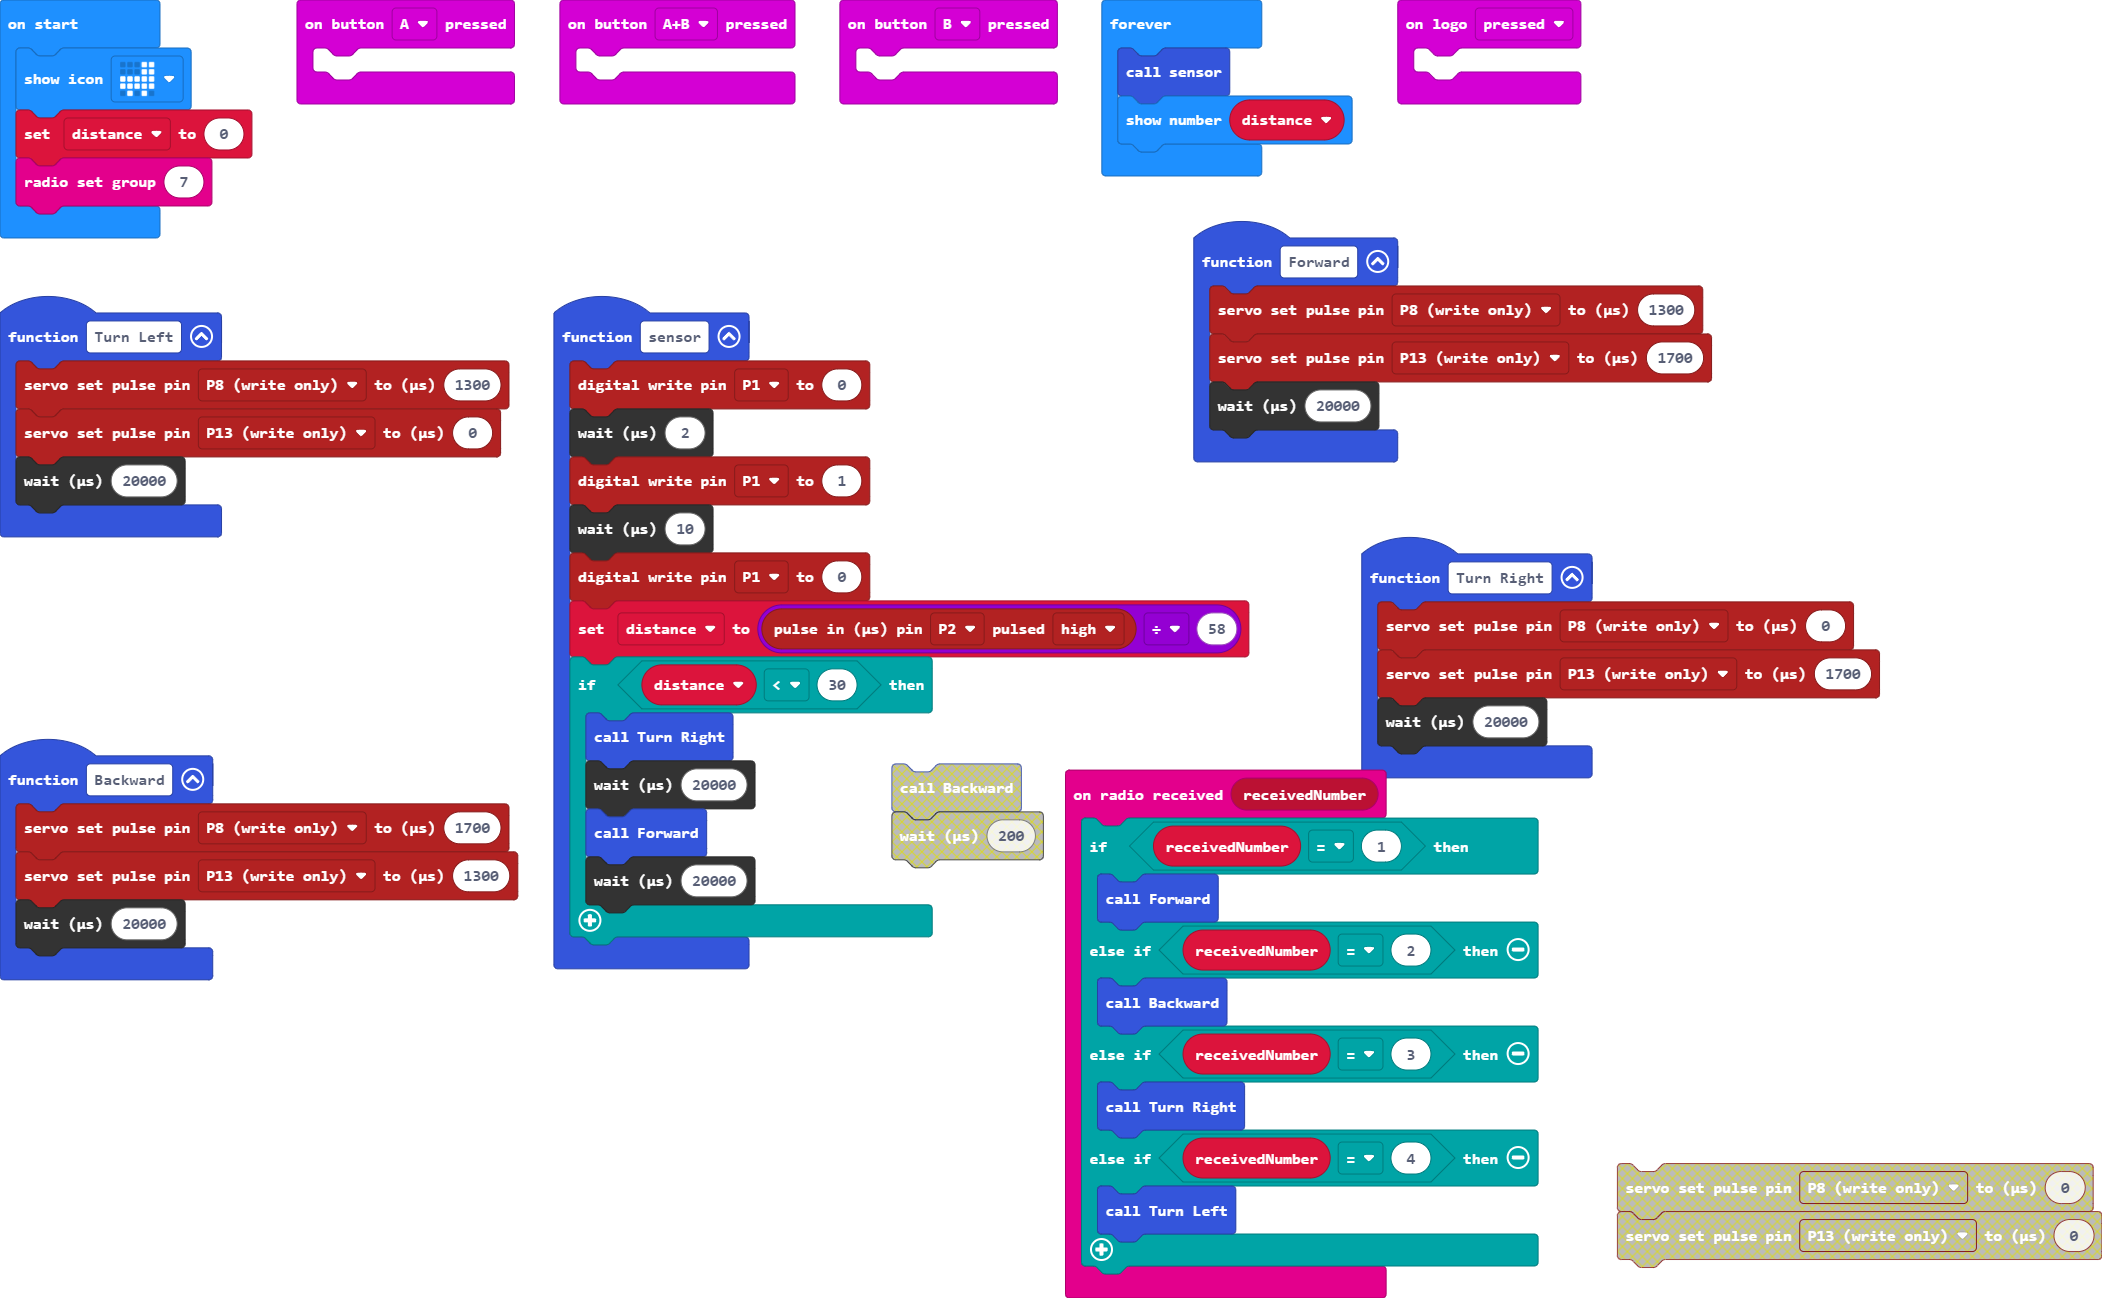
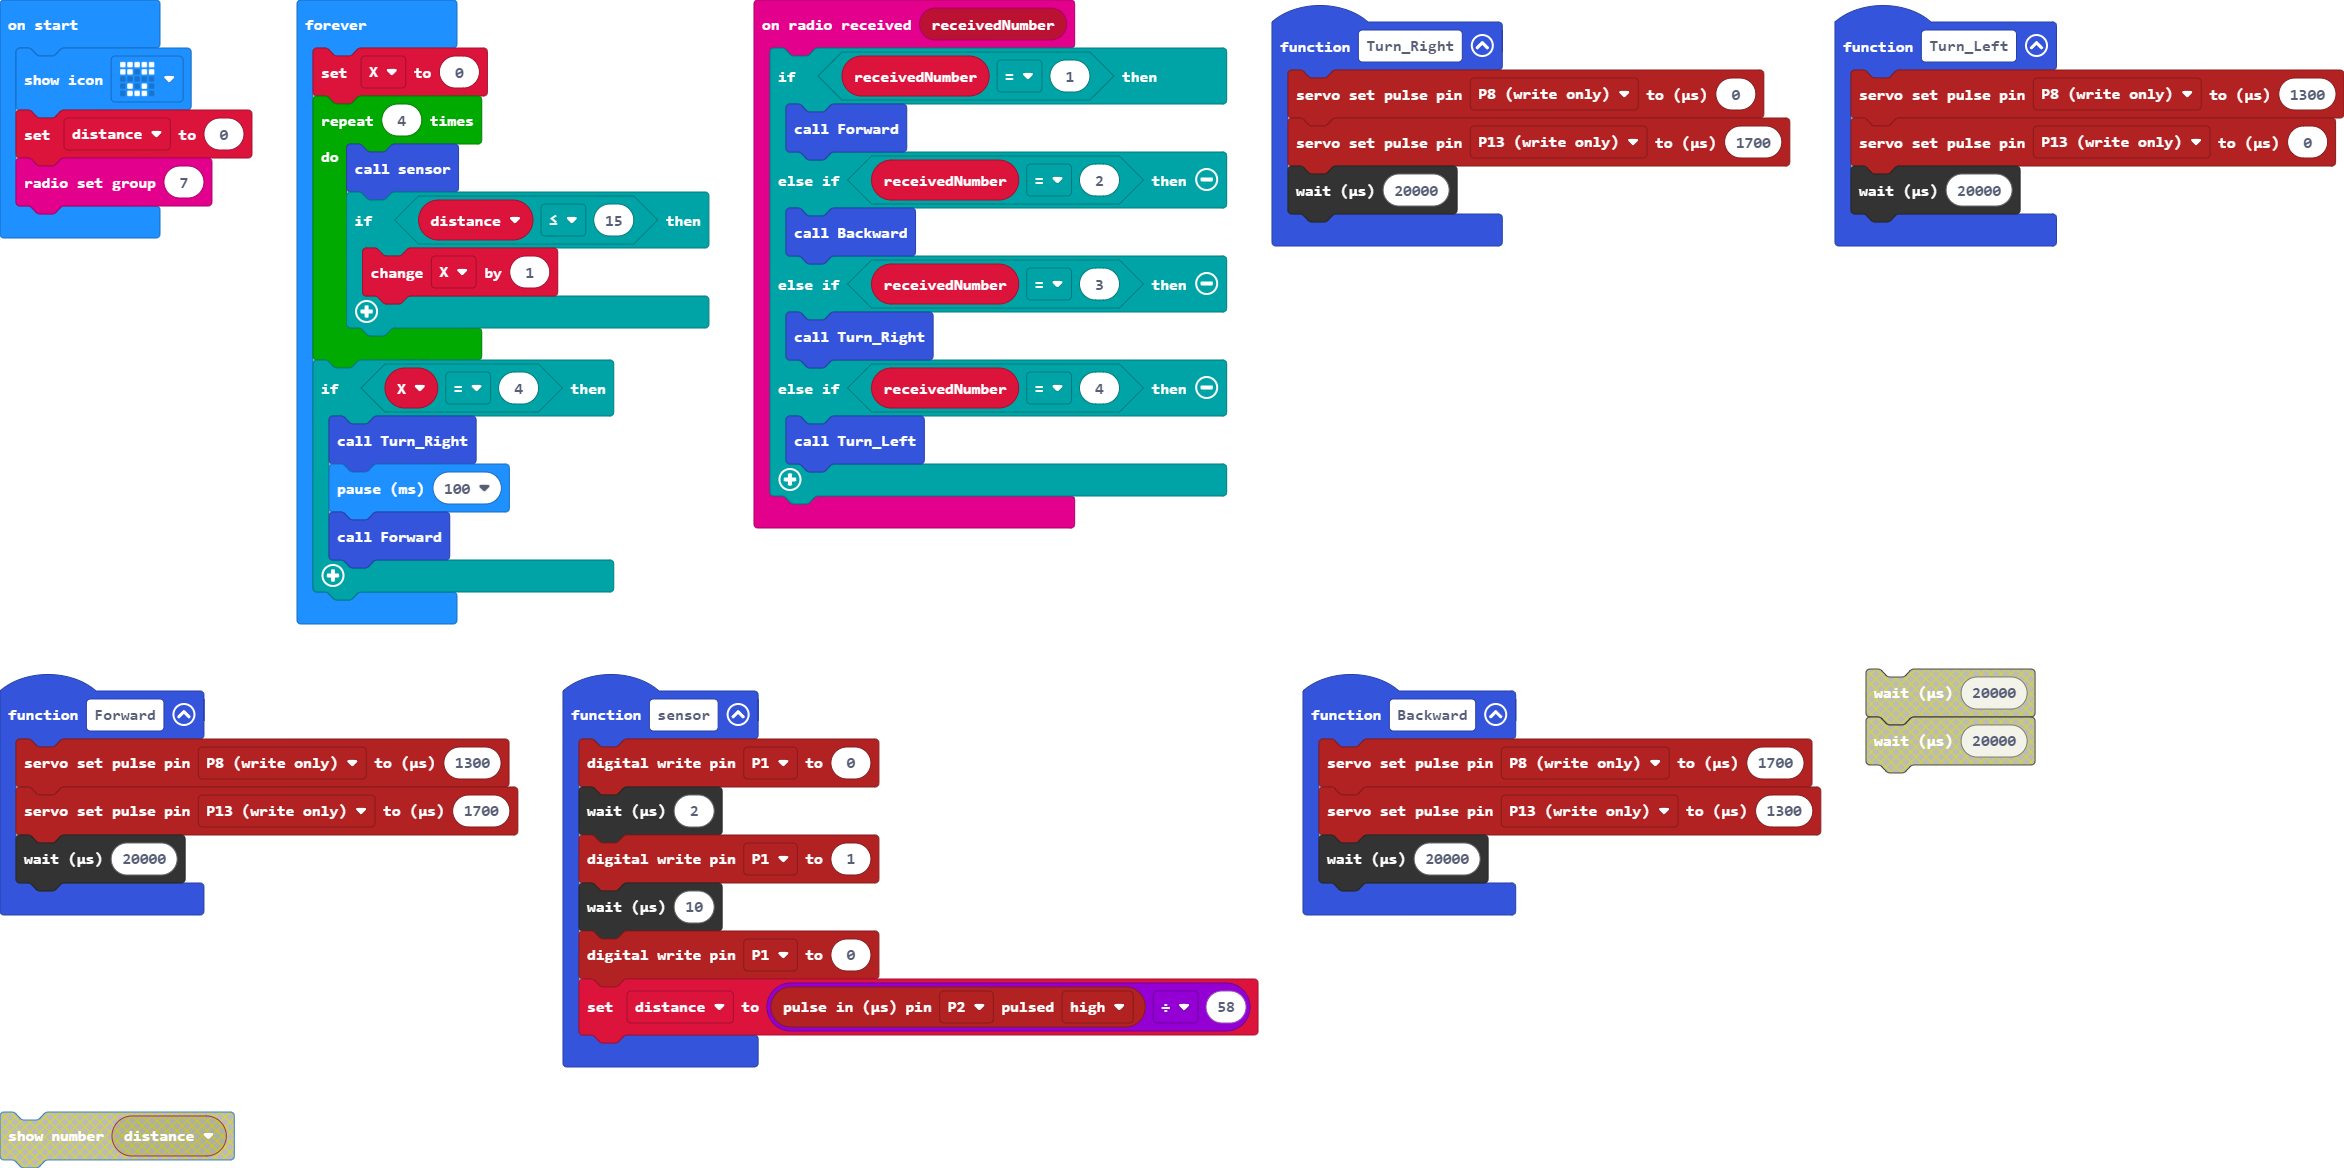
Update main.blocks, main.ts, main.py

diff --git a/main.ts b/main.ts
@@ -1,8 +1,3 @@
-function Turn_Right () {
-    pins.servoSetPulse(AnalogPin.P8, 0)
-    pins.servoSetPulse(AnalogPin.P13, 1700)
-    control.waitMicros(20000)
-}
 radio.onReceivedNumber(function (receivedNumber) {
     if (receivedNumber == 1) {
         Forward()
@@ -19,23 +14,16 @@ function Forward () {
     pins.servoSetPulse(AnalogPin.P13, 1700)
     control.waitMicros(20000)
 }
-input.onButtonPressed(Button.A, function () {
-	
-})
+function Turn_Right () {
+    pins.servoSetPulse(AnalogPin.P8, 0)
+    pins.servoSetPulse(AnalogPin.P13, 1700)
+    control.waitMicros(20000)
+}
 function Turn_Left () {
     pins.servoSetPulse(AnalogPin.P8, 1300)
     pins.servoSetPulse(AnalogPin.P13, 0)
     control.waitMicros(20000)
 }
-input.onButtonPressed(Button.AB, function () {
-	
-})
-input.onButtonPressed(Button.B, function () {
-	
-})
-input.onLogoEvent(TouchButtonEvent.Pressed, function () {
-	
-})
 function sensor () {
     pins.digitalWritePin(DigitalPin.P1, 0)
     control.waitMicros(2)
@@ -43,23 +31,28 @@ function sensor () {
     control.waitMicros(10)
     pins.digitalWritePin(DigitalPin.P1, 0)
     distance = pins.pulseIn(DigitalPin.P2, PulseValue.High) / 58
-    if (distance < 30) {
-        Turn_Right()
-        control.waitMicros(20000)
-        Forward()
-        control.waitMicros(20000)
-    }
 }
 function Backward () {
     pins.servoSetPulse(AnalogPin.P8, 1700)
     pins.servoSetPulse(AnalogPin.P13, 1300)
     control.waitMicros(20000)
 }
+let X = 0
 let distance = 0
-basic.showIcon(IconNames.Rollerskate)
+basic.showIcon(IconNames.Fabulous)
 distance = 0
 radio.setGroup(7)
 basic.forever(function () {
-    sensor()
-    basic.showNumber(distance)
+    X = 0
+    for (let index = 0; index < 4; index++) {
+        sensor()
+        if (distance <= 15) {
+            X += 1
+        }
+    }
+    if (X == 4) {
+        Turn_Right()
+        basic.pause(100)
+        Forward()
+    }
 })

diff --git a/main.py b/main.py
@@ -1,33 +1,26 @@
-def Turn_Right():
-    pins.servo_set_pulse(AnalogPin.P8, 0)
-    pins.servo_set_pulse(AnalogPin.P13, 1700)
-    control.wait_micros(20000)
+def on_received_number(receivedNumber):
+    if receivedNumber == 1:
+        Forward()
+    elif receivedNumber == 2:
+        Backward()
+    elif receivedNumber == 3:
+        Turn_Right()
+    elif receivedNumber == 4:
+        Turn_Left()
+radio.on_received_number(on_received_number)
+
 def Forward():
     pins.servo_set_pulse(AnalogPin.P8, 1300)
     pins.servo_set_pulse(AnalogPin.P13, 1700)
     control.wait_micros(20000)
-
-def on_button_pressed_a():
-    Forward()
-input.on_button_pressed(Button.A, on_button_pressed_a)
-
+def Turn_Right():
+    pins.servo_set_pulse(AnalogPin.P8, 0)
+    pins.servo_set_pulse(AnalogPin.P13, 1700)
+    control.wait_micros(20000)
 def Turn_Left():
     pins.servo_set_pulse(AnalogPin.P8, 1300)
     pins.servo_set_pulse(AnalogPin.P13, 0)
     control.wait_micros(20000)
-
-def on_button_pressed_ab():
-    Turn_Right()
-input.on_button_pressed(Button.AB, on_button_pressed_ab)
-
-def on_button_pressed_b():
-    Backward()
-input.on_button_pressed(Button.B, on_button_pressed_b)
-
-def on_logo_pressed():
-    Turn_Left()
-input.on_logo_event(TouchButtonEvent.PRESSED, on_logo_pressed)
-
 def sensor():
     global distance
     pins.digital_write_pin(DigitalPin.P1, 0)
@@ -36,19 +29,25 @@ def sensor():
     control.wait_micros(10)
     pins.digital_write_pin(DigitalPin.P1, 0)
     distance = pins.pulse_in(DigitalPin.P2, PulseValue.HIGH) / 58
-    if distance < 8:
-        pins.servo_set_pulse(AnalogPin.P8, 0)
-        pins.servo_set_pulse(AnalogPin.P13, 0)
-        control.wait_micros(20000)
 def Backward():
     pins.servo_set_pulse(AnalogPin.P8, 1700)
     pins.servo_set_pulse(AnalogPin.P13, 1300)
     control.wait_micros(20000)
+X = 0
 distance = 0
-basic.show_icon(IconNames.TSHIRT)
+basic.show_icon(IconNames.FABULOUS)
 distance = 0
+radio.set_group(7)
 
 def on_forever():
-    sensor()
-    basic.show_number(distance)
+    global X
+    X = 0
+    for index in range(4):
+        sensor()
+        if distance <= 15:
+            X += 1
+    if X == 4:
+        Turn_Right()
+        basic.pause(100)
+        Forward()
 basic.forever(on_forever)
